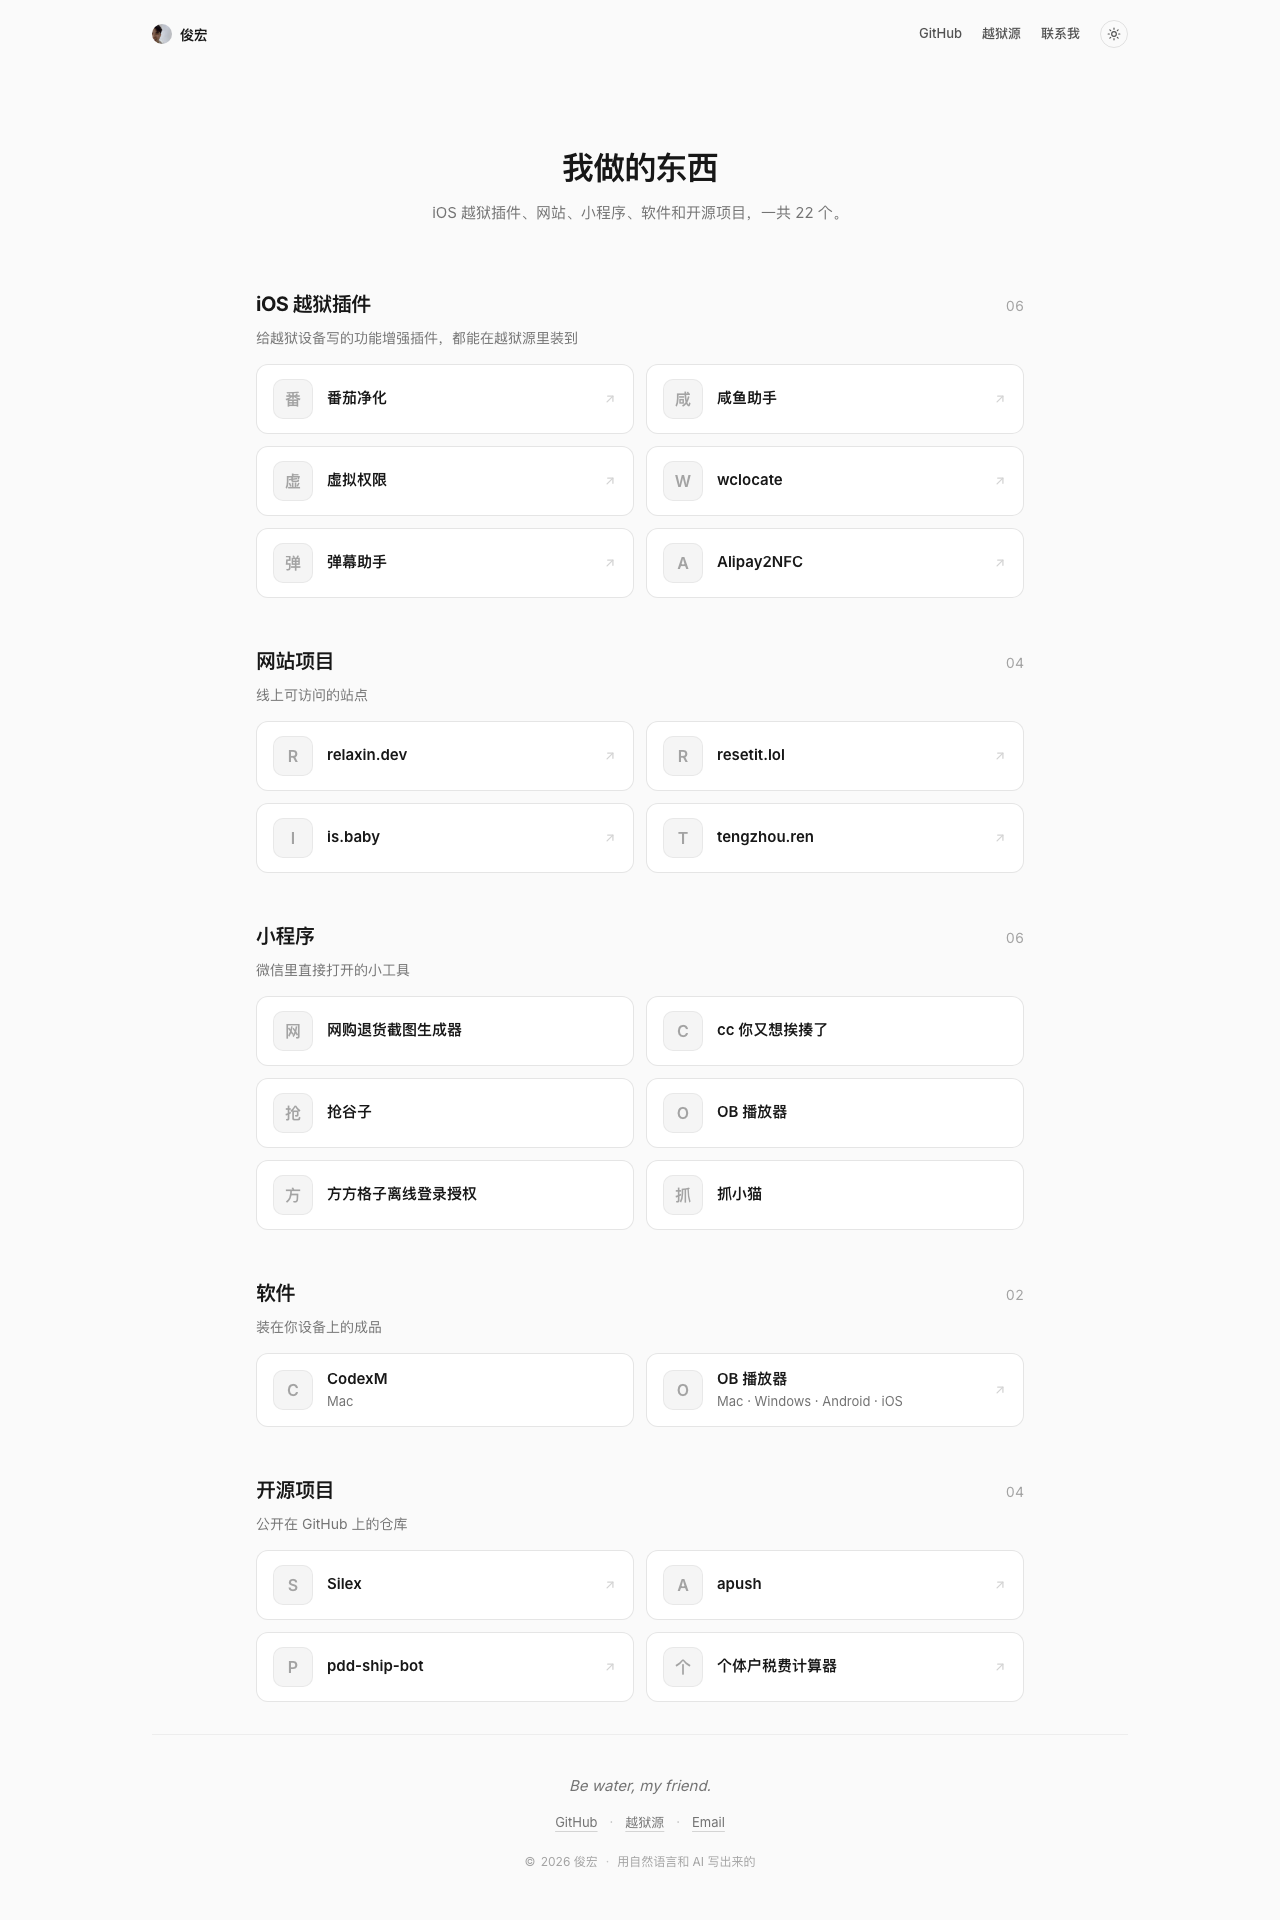
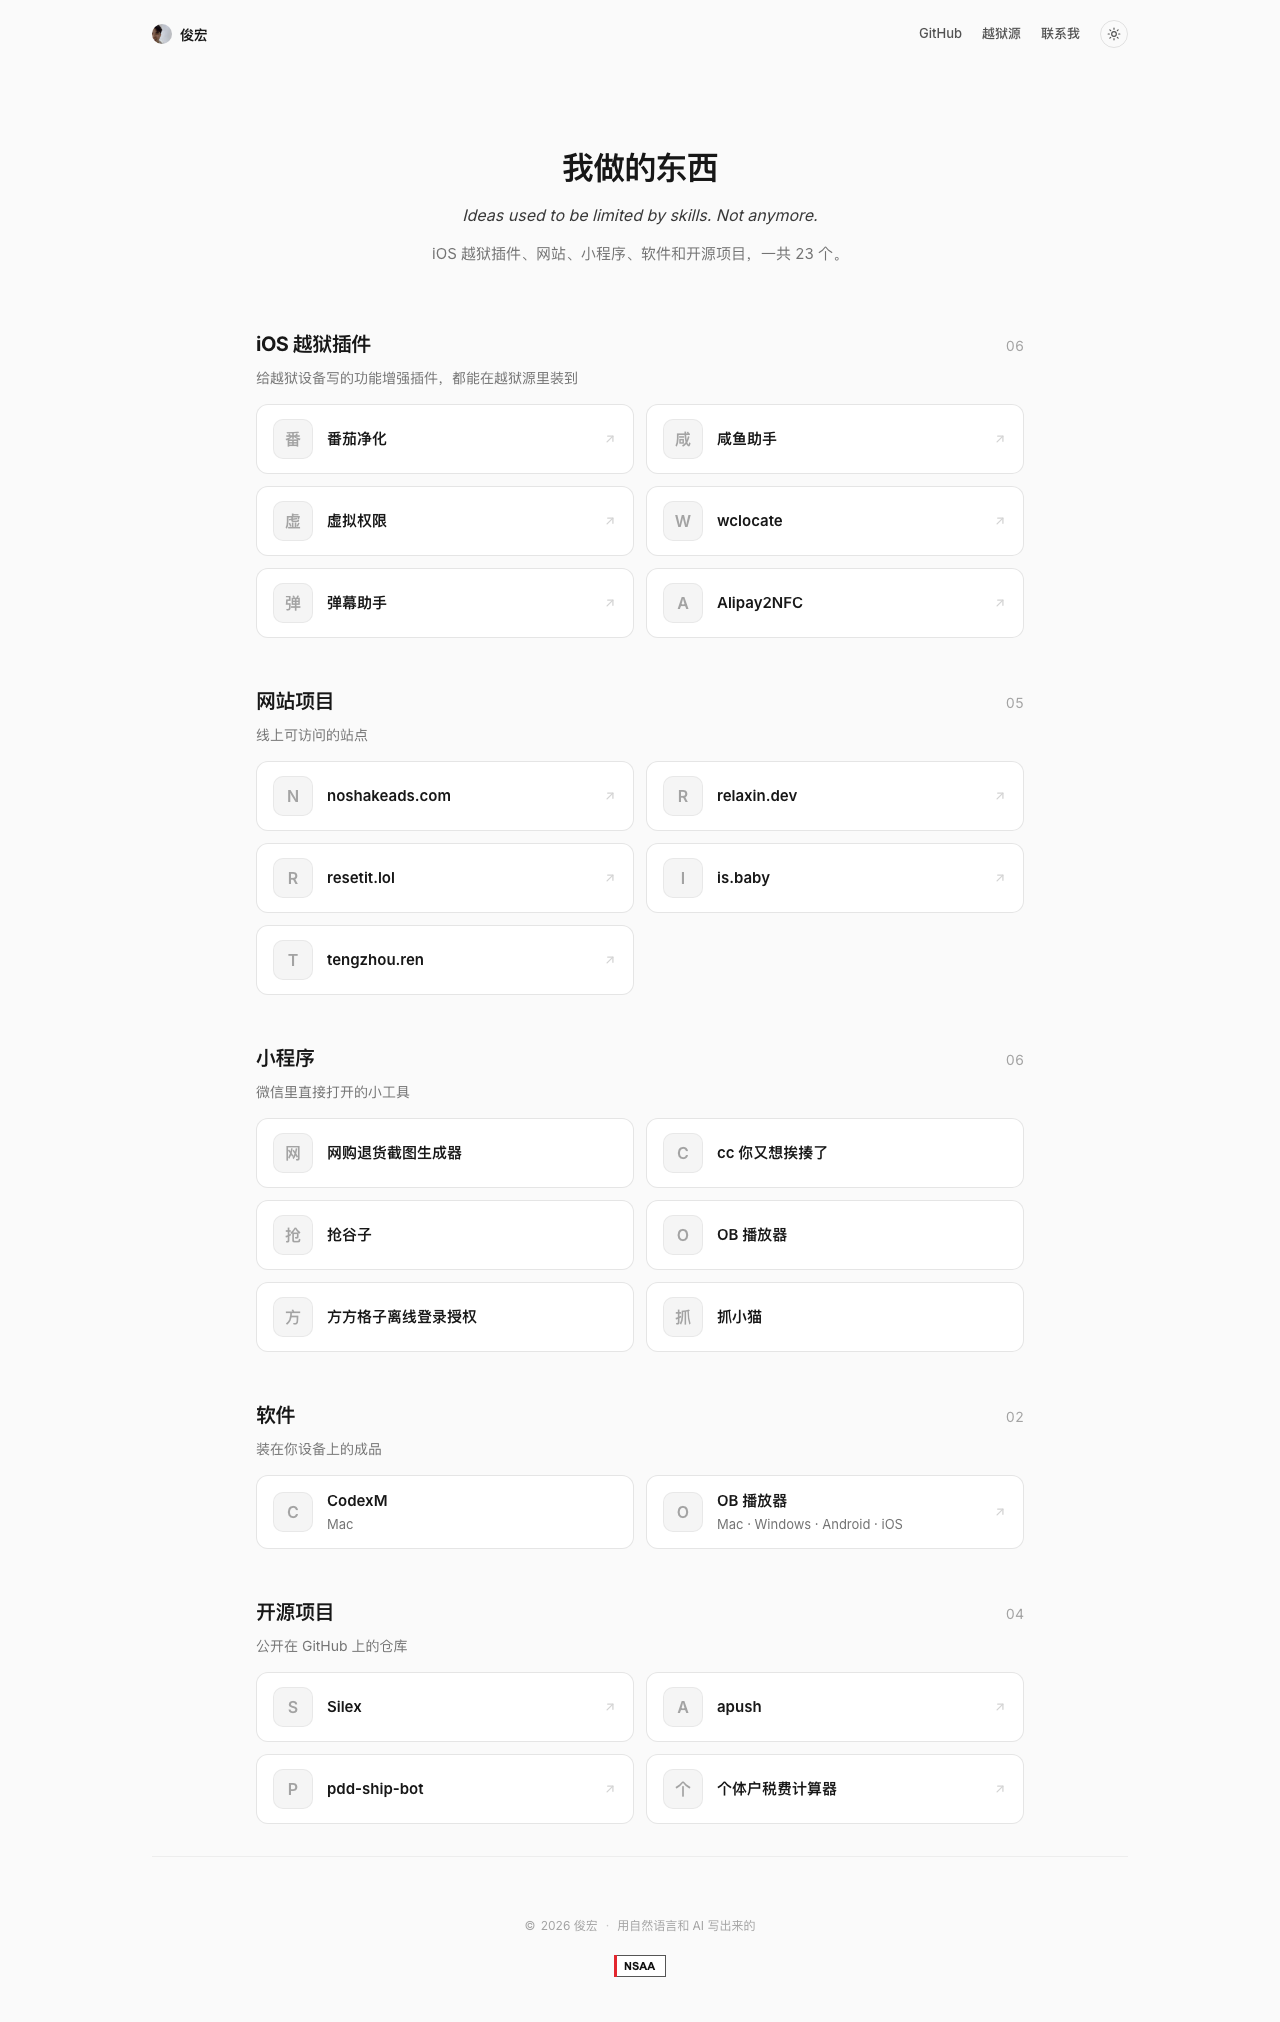
首页调整：加座右铭与 noshakeads 徽章，精简页脚
- 首屏新增座右铭 Ideas used to be limited by skills. Not anymore.
- 网站项目新增 noshakeads.com，总数 22 -> 23
- 页脚移除 Be water 签名和 GitHub/越狱源/Email 行（顶栏已有这些入口）
- 页脚悬挂 noshakeads 徽章
- 页脚链接改为可选：SITE.footer 留空即不渲染，取消注释即可恢复

diff --git a/assets/app.js b/assets/app.js
@@ -211,25 +211,28 @@
     var footer = el("footer", "footer reveal");
     footer.style.animationDelay = "0.36s";
 
-    // 第一行：个性签名
+    // 第一行：个性签名（可选）
     if (s.sign) {
       footer.appendChild(el("p", "footer__sign", { textContent: s.sign }));
     }
 
-    // 第二行：链接
-    var links = el("nav", "footer__links", { "aria-label": "页脚导航" });
-    (SITE.footer || []).forEach(function (item, i) {
-      if (i > 0) {
-        links.appendChild(el("span", "footer__sep", { "aria-hidden": "true", textContent: "·" }));
-      }
-      var attrs = { href: item.href, textContent: item.label };
-      if (item.external || external(item.href)) {
-        attrs.target = "_blank";
-        attrs.rel = "noreferrer";
-      }
-      links.appendChild(el("a", null, attrs));
-    });
-    footer.appendChild(links);
+    // 第二行：链接（可选，顶栏已有这些入口时留空即可）
+    var items = SITE.footer || [];
+    if (items.length) {
+      var links = el("nav", "footer__links", { "aria-label": "页脚导航" });
+      items.forEach(function (item, i) {
+        if (i > 0) {
+          links.appendChild(el("span", "footer__sep", { "aria-hidden": "true", textContent: "·" }));
+        }
+        var attrs = { href: item.href, textContent: item.label };
+        if (item.external || external(item.href)) {
+          attrs.target = "_blank";
+          attrs.rel = "noreferrer";
+        }
+        links.appendChild(el("a", null, attrs));
+      });
+      footer.appendChild(links);
+    }
 
     // 第三行：版权
     var year = s.year || new Date().getFullYear();
@@ -241,6 +244,27 @@
       copy.appendChild(document.createTextNode(s.footerNote));
     }
     footer.appendChild(copy);
+
+    // 第四行：徽章（可选）
+    if (s.badge && s.badge.src) {
+      var badgeWrap = el("p", "footer__badge");
+      var badgeLink = el("a", null, { href: s.badge.href || "#" });
+      if (external(s.badge.href)) {
+        badgeLink.setAttribute("target", "_blank");
+        badgeLink.setAttribute("rel", "noreferrer");
+      }
+      badgeLink.appendChild(
+        el("img", null, {
+          src: s.badge.src,
+          alt: s.badge.alt || "",
+          width: s.badge.width || 52,
+          height: s.badge.height || 22,
+          loading: "lazy",
+        })
+      );
+      badgeWrap.appendChild(badgeLink);
+      footer.appendChild(badgeWrap);
+    }
 
     return footer;
   }
@@ -262,6 +286,9 @@
     var hero = el("section", "hero reveal");
     hero.style.animationDelay = "0.06s";
     hero.appendChild(el("h1", "hero__title", { textContent: s.title || "" }));
+    if (s.motto) {
+      hero.appendChild(el("p", "hero__motto", { textContent: s.motto }));
+    }
     if (s.subtitle) {
       hero.appendChild(el("p", "hero__subtitle", { textContent: s.subtitle }));
     }

diff --git a/assets/projects.js b/assets/projects.js
@@ -26,10 +26,19 @@ window.SITE = {
     name: "俊宏",
     logo: "touxiang.jpg",
     title: "我做的东西",
-    subtitle: "iOS 越狱插件、网站、小程序、软件和开源项目，一共 22 个。",
-    sign: "Be water, my friend.", // 页脚第一行的签名，不想要就删掉这行
+    motto: "Ideas used to be limited by skills. Not anymore.", // 首屏座右铭，不想要就删掉这行
+    subtitle: "iOS 越狱插件、网站、小程序、软件和开源项目，一共 23 个。",
     footerNote: "用自然语言和 AI 写出来的", // 版权后面那句小字
     year: null, // 留 null 自动取当前年份
+
+    // 页脚的徽章，不想要就删掉这一项
+    badge: {
+      href: "https://noshakeads.com/10000",
+      src: "https://noshakeads.com/badge.svg",
+      alt: "NSAA",
+      width: 52,
+      height: 22,
+    },
   },
 
   /* ---------- 顶栏导航 ---------- */
@@ -39,12 +48,14 @@ window.SITE = {
     { label: "联系我", href: MAIL },
   ],
 
-  /* ---------- 页脚 ---------- */
-  footer: [
-    { label: "GitHub", href: GH, external: true },
-    { label: "越狱源", href: APT, external: true },
-    { label: "Email", href: MAIL },
-  ],
+  /* ---------- 页脚链接 ----------
+     这几个入口顶栏右上角已经有了，页脚就不再重复。
+     想让页脚也显示，把下面这段取消注释即可。 */
+  // footer: [
+  //   { label: "GitHub", href: GH, external: true },
+  //   { label: "越狱源", href: APT, external: true },
+  //   { label: "Email", href: MAIL },
+  // ],
 
   /* ---------- 作品分组 ---------- */
   groups: [
@@ -66,6 +77,7 @@ window.SITE = {
       title: "网站项目",
       desc: "线上可访问的站点",
       items: [
+        { name: "noshakeads.com", href: "https://noshakeads.com" },
         { name: "relaxin.dev", href: "https://relaxin.dev" },
         { name: "resetit.lol", href: "https://resetit.lol" },
         { name: "is.baby", href: "https://is.baby" },

diff --git a/assets/styles.css b/assets/styles.css
@@ -269,6 +269,17 @@ main {
   text-wrap: balance;
 }
 
+.hero__motto {
+  max-width: 30rem;
+  margin: 0.9375rem auto 0;
+  font-size: 1rem;
+  font-style: italic;
+  line-height: 1.6;
+  color: var(--fg);
+  opacity: 0.85;
+  text-wrap: balance;
+}
+
 .hero__subtitle {
   margin: 0.875rem auto 0;
   max-width: 32rem;
@@ -501,6 +512,28 @@ main {
   margin-top: 1.25rem;
   font-size: 12px;
   color: var(--muted-soft);
+}
+
+/* 页脚徽章 */
+.footer__badge {
+  display: flex;
+  justify-content: center;
+  margin-top: 1.25rem;
+}
+
+.footer__badge a {
+  display: inline-flex;
+  transition: opacity 0.15s, transform 0.15s;
+}
+
+.footer__badge a:hover {
+  opacity: 0.8;
+  transform: translateY(-1px);
+}
+
+.footer__badge img {
+  display: block;
+  border: 0;
 }
 
 .footer__sep {
